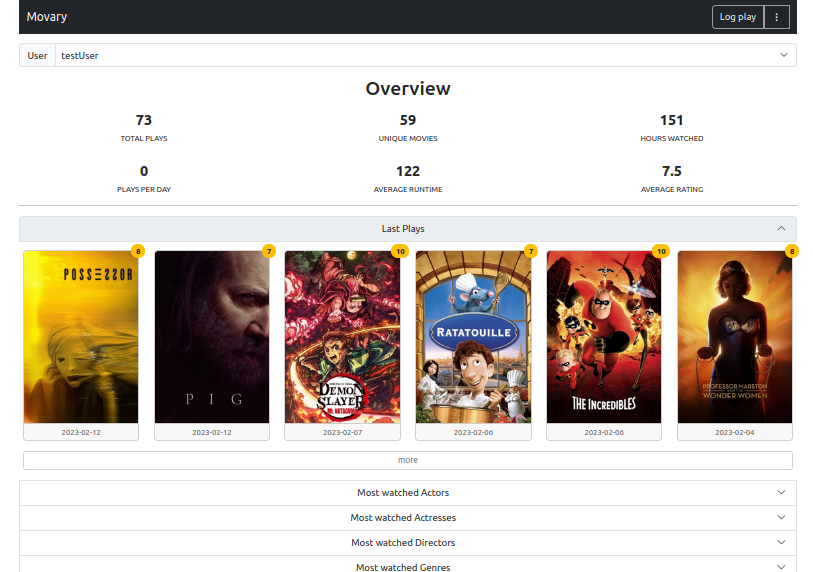
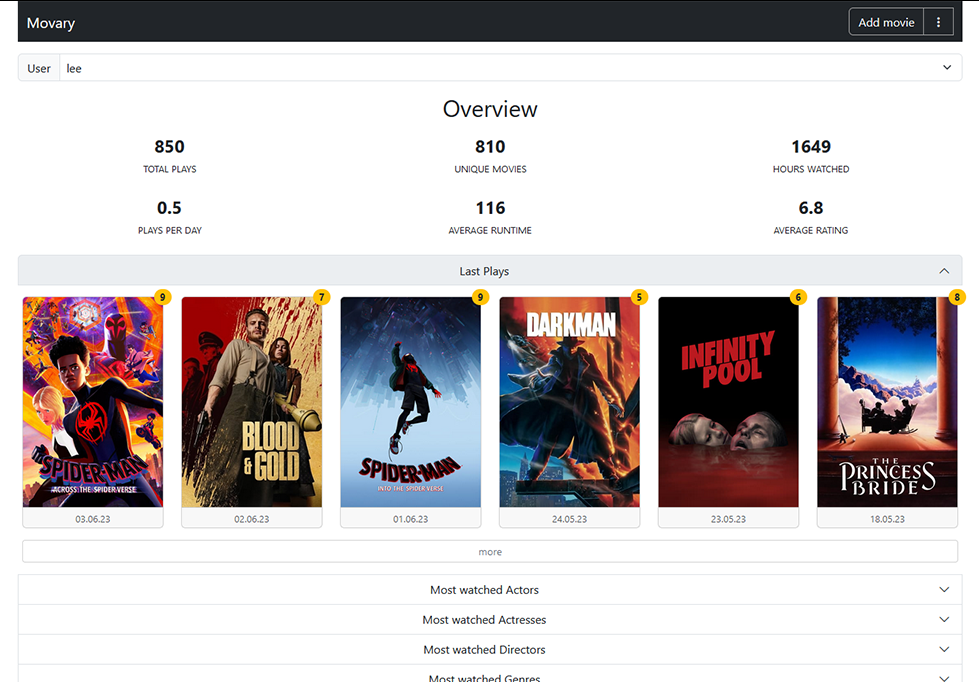
Update dashboard screenshot

diff --git a/README.md b/README.md
@@ -22,14 +22,12 @@
 <a href="https://demo.movary.org/" target="_blank" rel="noopener noreferrer">Demo</a>
 </p>
 
-Movary is a web application to track, rate and manage your movie watch history.
+Movary is free and open source web application to track, rate and manage your movie watch history.
 It provides statistics about your history,
 third party integrations to import/export from e.g. Trakt, Letterboxd or Netflix,
-automatically logs online plays in Plex, Jellyfin or Emby and much [more](#features).
+automatically logs plays in Plex, Jellyfin or Emby and much [more](#features).
 
-Most importantly: It is free, open source and wants to empower users to have full control over their personal data.
-
-![Movary Dashboard Example](https://i.imgur.com/1qvhWFh.png)
+![Movary Dashboard Example](docs/images/dashboard-screenshot.png)
 
 Demo installation can be found [here](https://demo.movary.org/) (User: `testUser@movary.org` Password:`testUser`)
 

diff --git a/docs/index.md b/docs/index.md
@@ -22,14 +22,12 @@
 <a href="https://demo.movary.org/" target="_blank" rel="noopener noreferrer">Demo</a>
 </p>
 
-Movary is a web application to track, rate and manage your movie watch history.
+Movary is free and open source web application to track, rate and manage your movie watch history.
 It provides statistics about your history,
 third party integrations to import/export from e.g. Trakt, Letterboxd or Netflix,
-automatically logs online plays in Plex, Jellyfin or Emby and much [more](#features).
+automatically logs plays in Plex, Jellyfin or Emby and much [more](#features).
 
-Most importantly: It is free, open source and wants to empower users to have full control over their personal data.
-
-![Movary Dashboard Example](https://i.imgur.com/1qvhWFh.png)
+![Movary Dashboard Example](images/dashboard-screenshot.png)
 
 Demo installation can be found [here](https://demo.movary.org/) (User: `testUser@movary.org` Password:`testUser`)
 
